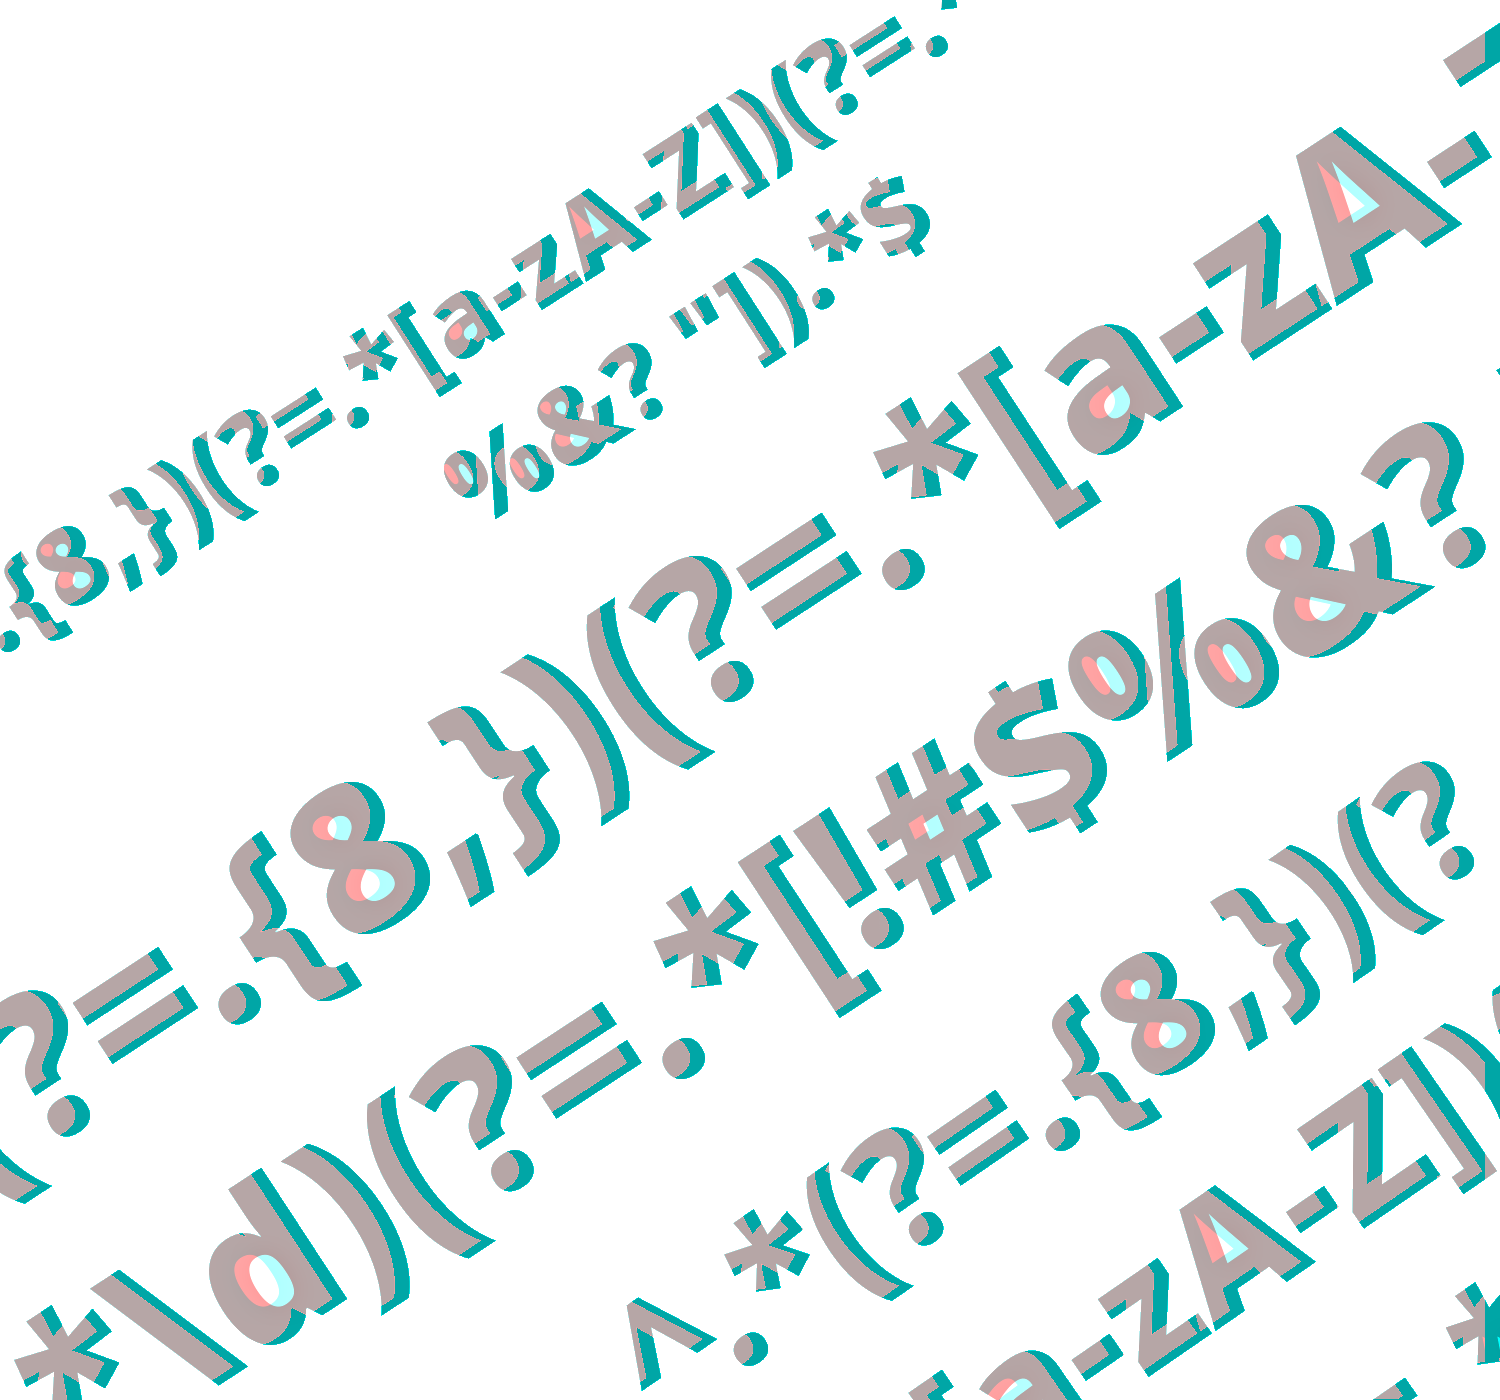
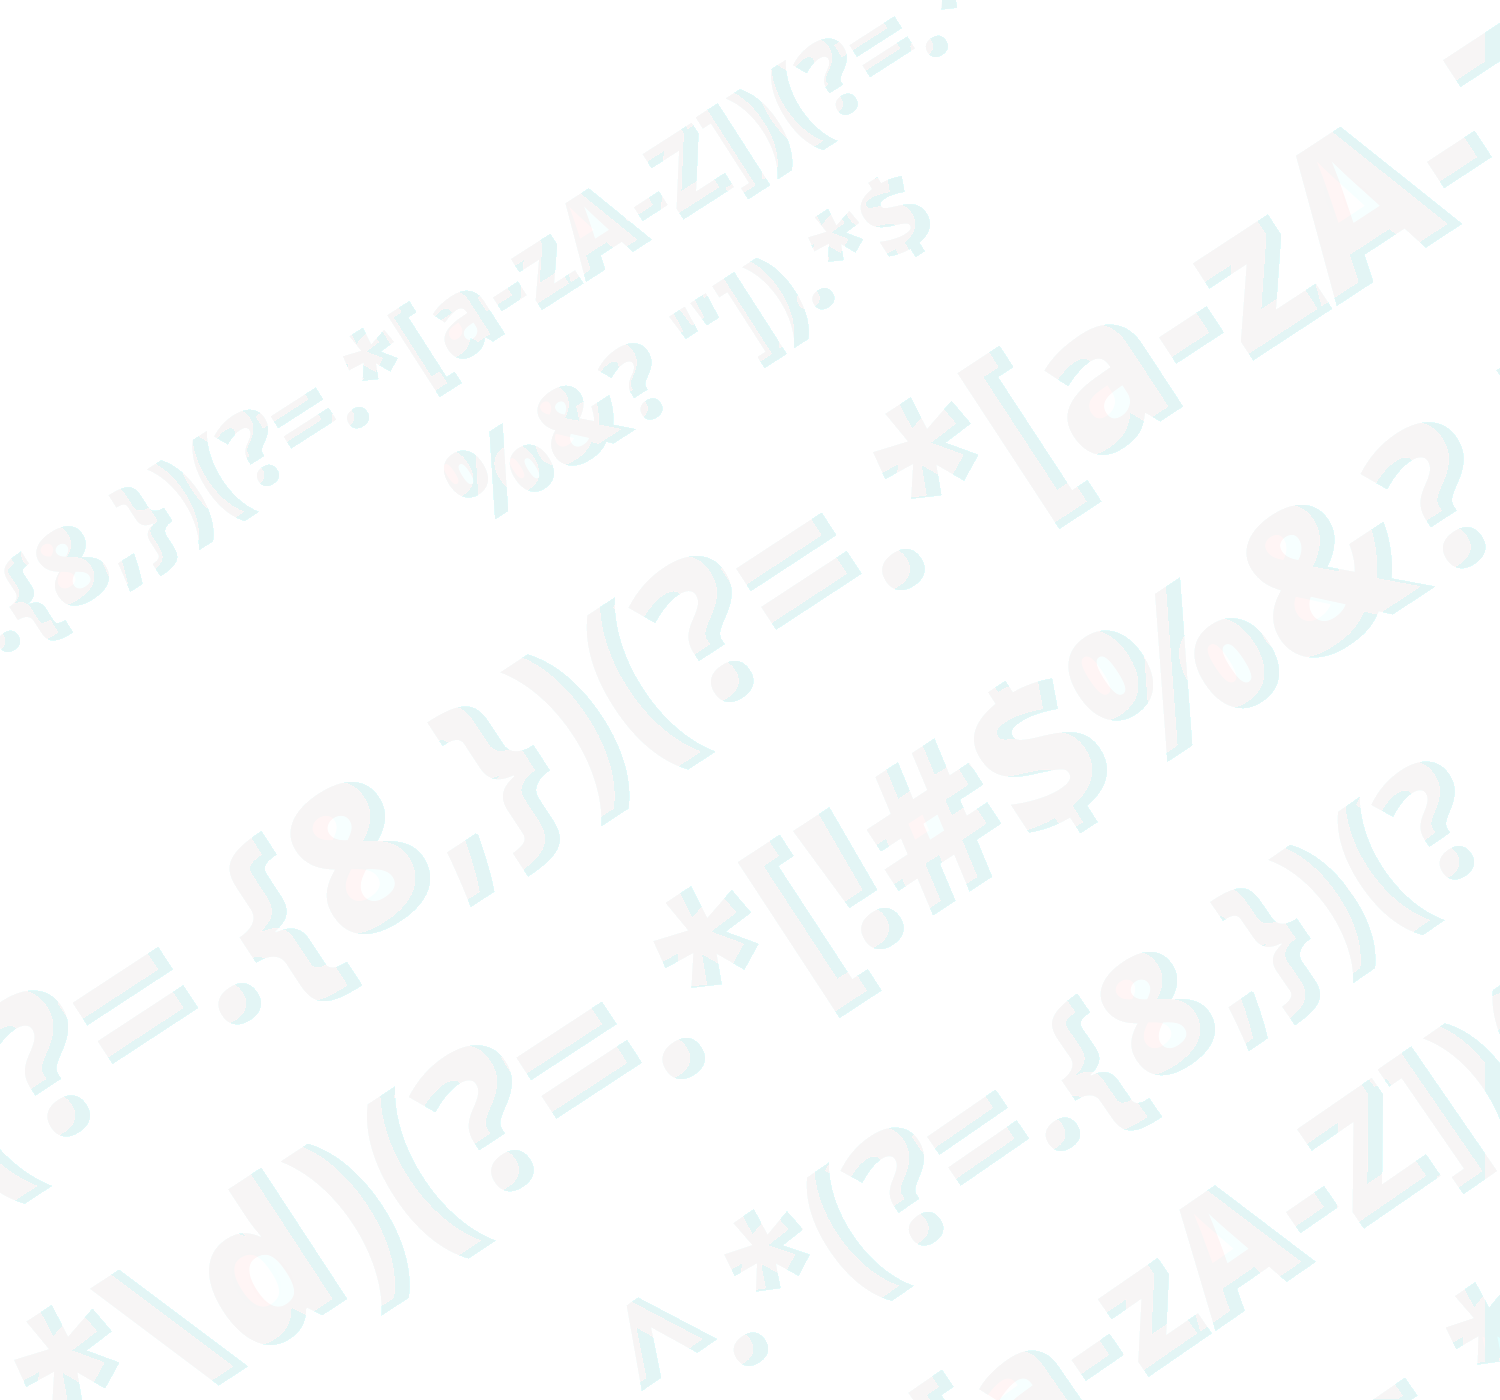
Прижал подвал, обесцветил фон

diff --git a/public/asset/css/Includes/header.css b/public/asset/css/Includes/header.css
@@ -1,78 +1,77 @@
-*{
-    margin: 0;
-    padding: 0;
+* {
+  margin: 0;
+  padding: 0;
 }
 
-a:link{
-    text-decoration: none;
-}
-
-
-
-.header{
-    box-sizing: border-box;
-    height: 85px;
-    width: 100vw;
-    box-shadow: 0px 4px 4px black;
-   
-}
- 
-
-.gradient_header{
-    background:linear-gradient( 10deg,
-        rgba(0, 0, 0, 1),
-        rgba(29, 12, 12, 1),
-        rgba(38, 0, 0, 0.97),
-        rgba(33, 16, 16, 0.97),
-        rgba(40, 37, 37, 0.9036),
-        rgba(14, 40, 12, 0.76),
-        rgba(14, 1, 1, 0.7942),
-        rgba(0, 0, 0, 0.99)
-    );
-}
-
-
-.contain_header{
-    max-width: 1024px;
-    height: 100%;
-    margin-left:auto;
-    margin-right:auto;
-    display: flex;
-    justify-content: space-between;
-    align-items: center;
-    flex-wrap: wrap
-
-}
-
-.icon_block_header{
-    width: 260px;
-    display:flex;
-    flex-direction: row;
-    justify-content: space-between;
-    align-items: center;
-}
-
-
-.logo_sm{  
-    font-family: "Anonymous Pro";
-    color: white;
-    font-weight: 400;
-} 
-
-.logo_sm_regexp{
-    font-size: 37px;
-   /* margin-top: 13px;  */
-}
-
-.logo_sm_master{
-    font-size: 16px;
-    margin-left: 63px;
-    margin-top: -14px;    
+a:link {
+  text-decoration: none;
 }
 
 
 
-.icon_header{
-    width: 30px;
-    height: 30px;
+.header {
+  box-sizing: border-box;
+  height: 85px;
+  width: 100vw;
+  box-shadow: 0px 4px 4px black;
+  color: darkgrey;
+
+}
+
+
+.gradient_header {
+  background: linear-gradient(10deg,
+      rgba(0, 0, 0, 1),
+      rgba(29, 12, 12, 1),
+      rgba(38, 0, 0, 0.97),
+      rgba(33, 16, 16, 0.97),
+      rgba(40, 37, 37, 0.9036),
+      rgba(14, 40, 12, 0.76),
+      rgba(14, 1, 1, 0.7942),
+      rgba(0, 0, 0, 0.99));
+}
+
+
+.contain_header {
+  max-width: 1024px;
+  height: 100%;
+  margin-left: auto;
+  margin-right: auto;
+  display: flex;
+  justify-content: space-between;
+  align-items: center;
+  flex-wrap: wrap
+}
+
+.icon_block_header {
+  width: 260px;
+  display: flex;
+  flex-direction: row;
+  justify-content: space-between;
+  align-items: center;
+}
+
+
+.logo_sm {
+  font-family: "Anonymous Pro";
+  color: white;
+  font-weight: 400;
+}
+
+.logo_sm_regexp {
+  font-size: 37px;
+  /* margin-top: 13px;  */
+}
+
+.logo_sm_master {
+  font-size: 16px;
+  margin-left: 63px;
+  margin-top: -14px;
+}
+
+
+
+.icon_header {
+  width: 30px;
+  height: 30px;
 }

diff --git a/public/asset/css/main.css b/public/asset/css/main.css
@@ -1,0 +1,19 @@
+* {
+  margin: 0;
+  padding: 0;
+}
+
+.rast {
+  min-height: 100vh;
+  display: flex;
+  flex-direction: column;
+}
+
+.verx {
+  flex-grow: 1;
+}
+
+.soder {
+  background-image: url("/asset/Images/Background/fon1.png");
+  background-repeat: repeat;
+}

diff --git a/public/asset/css/Includes/footer.css b/public/asset/css/Includes/footer.css
@@ -1,9 +1,10 @@
-*{
-    margin: 0;
-    padding: 0;
+* {
+  margin: 0;
+  padding: 0;
 }
 
-.footer{
-    height: 130px;
-    background-color: black;
+.footer {
+  height: 130px;
+  background-color: black;
+  color: darkgrey;
 }

diff --git a/resources/views/index.blade.php b/resources/views/index.blade.php
@@ -1,55 +1,66 @@
 <!DOCTYPE html>
 <html lang="en">
+
 <head>
-    <meta charset="UTF-8">
-    <meta name="viewport" content="width=device-width, initial-scale=1.0">
-    <meta http-equiv="X-UA-Compatible" content="ie=edge">
-    <link rel="stylesheet" href="{{ asset('asset/css/Includes/header.css') }}">
-    <link rel="stylesheet" href="{{ asset('asset/css/reg_background.css') }}">
-    <link rel="stylesheet" href="{{ asset('asset/css/Includes/footer.css') }}">
+  <meta charset="UTF-8">
+  <meta name="viewport" content="width=device-width, initial-scale=1.0">
+  <meta http-equiv="X-UA-Compatible" content="ie=edge">
+  <link rel="stylesheet" href="{{ asset('asset/css/main.css') }}">
+  <link rel="stylesheet" href="{{ asset('asset/css/Includes/header.css') }}">
+  <link rel="stylesheet" href="{{ asset('asset/css/Includes/footer.css') }}">
 
-    {{--   Шрифты:  --}}
-    <link rel="preconnect" href="https://fonts.googleapis.com">
-    <link rel="preconnect" href="https://fonts.gstatic.com" crossorigin>
-    <link href="https: //fonts.googleapis.com/css2?family= семья= Аноним+Про:wght@400;700 & display=swap" rel="stylesheet">
+  {{-- Шрифты: --}}
+  <link rel="preconnect" href="https://fonts.googleapis.com">
+  <link rel="preconnect" href="https://fonts.gstatic.com" crossorigin>
+  <link href="https: //fonts.googleapis.com/css2?family= семья= Аноним+Про:wght@400;700 & display=swap"
+    rel="stylesheet">
 
 
-    <link rel="preconnect" href="https://fonts.googleapis.com">
-    <link rel="preconnect" href="https://fonts.gstatic.com" crossorigin>
-    <link href="https://fonts.googleapis.com/css2?family=Anonymous+Pro:wght@400;700&family=Roboto+Mono:ital,wght@0,200;0,300;0,400;0,600;0,700;1,200;1,300;1,400;1,500;1,600&display=swap" rel="stylesheet">
-    
+  <link rel="preconnect" href="https://fonts.googleapis.com">
+  <link rel="preconnect" href="https://fonts.gstatic.com" crossorigin>
+  <link
+    href="https://fonts.googleapis.com/css2?family=Anonymous+Pro:wght@400;700&family=Roboto+Mono:ital,wght@0,200;0,300;0,400;0,600;0,700;1,200;1,300;1,400;1,500;1,600&display=swap"
+    rel="stylesheet">
 
-        <!-- CSRF Token -->
-    <meta name="csrf-token" content="{{ csrf_token() }}">
 
-    <title>Document</title>
-     <!-- Fonts -->
-     <link rel="dns-prefetch" href="//fonts.bunny.net">
-     <link href="https://fonts.bunny.net/css?family=Nunito" rel="stylesheet">
- 
-     <!-- Scripts -->
-     @vite(['resources/sass/app.scss', 'resources/js/app.js'])
+  <!-- CSRF Token -->
+  <meta name="csrf-token" content="{{ csrf_token() }}">
 
-    
+  <title>Document</title>
+  <!-- Fonts -->
+  <link rel="dns-prefetch" href="//fonts.bunny.net">
+  <link href="https://fonts.bunny.net/css?family=Nunito" rel="stylesheet">
+
+  <!-- Scripts -->
+  @vite(['resources/sass/app.scss', 'resources/js/app.js'])
+
+
 
 
 
 </head>
+
 <body>
 
-    
 
-    
-<div class="wrapper">
 
-           @include('Includes.header')
 
+  <div class="rast wrapper">
+
+    <div class="verx">
+
+      @include('Includes.header')
+
+      <div class="soder">
         @yield('content')
+      </div>
 
-        <div class="img_fon"></div>
-    
-    @include('Includes.footer')</div>
-    
+    </div>
+
+    @include('Includes.footer')
+
+  </div>
+
 </body>
 
 
